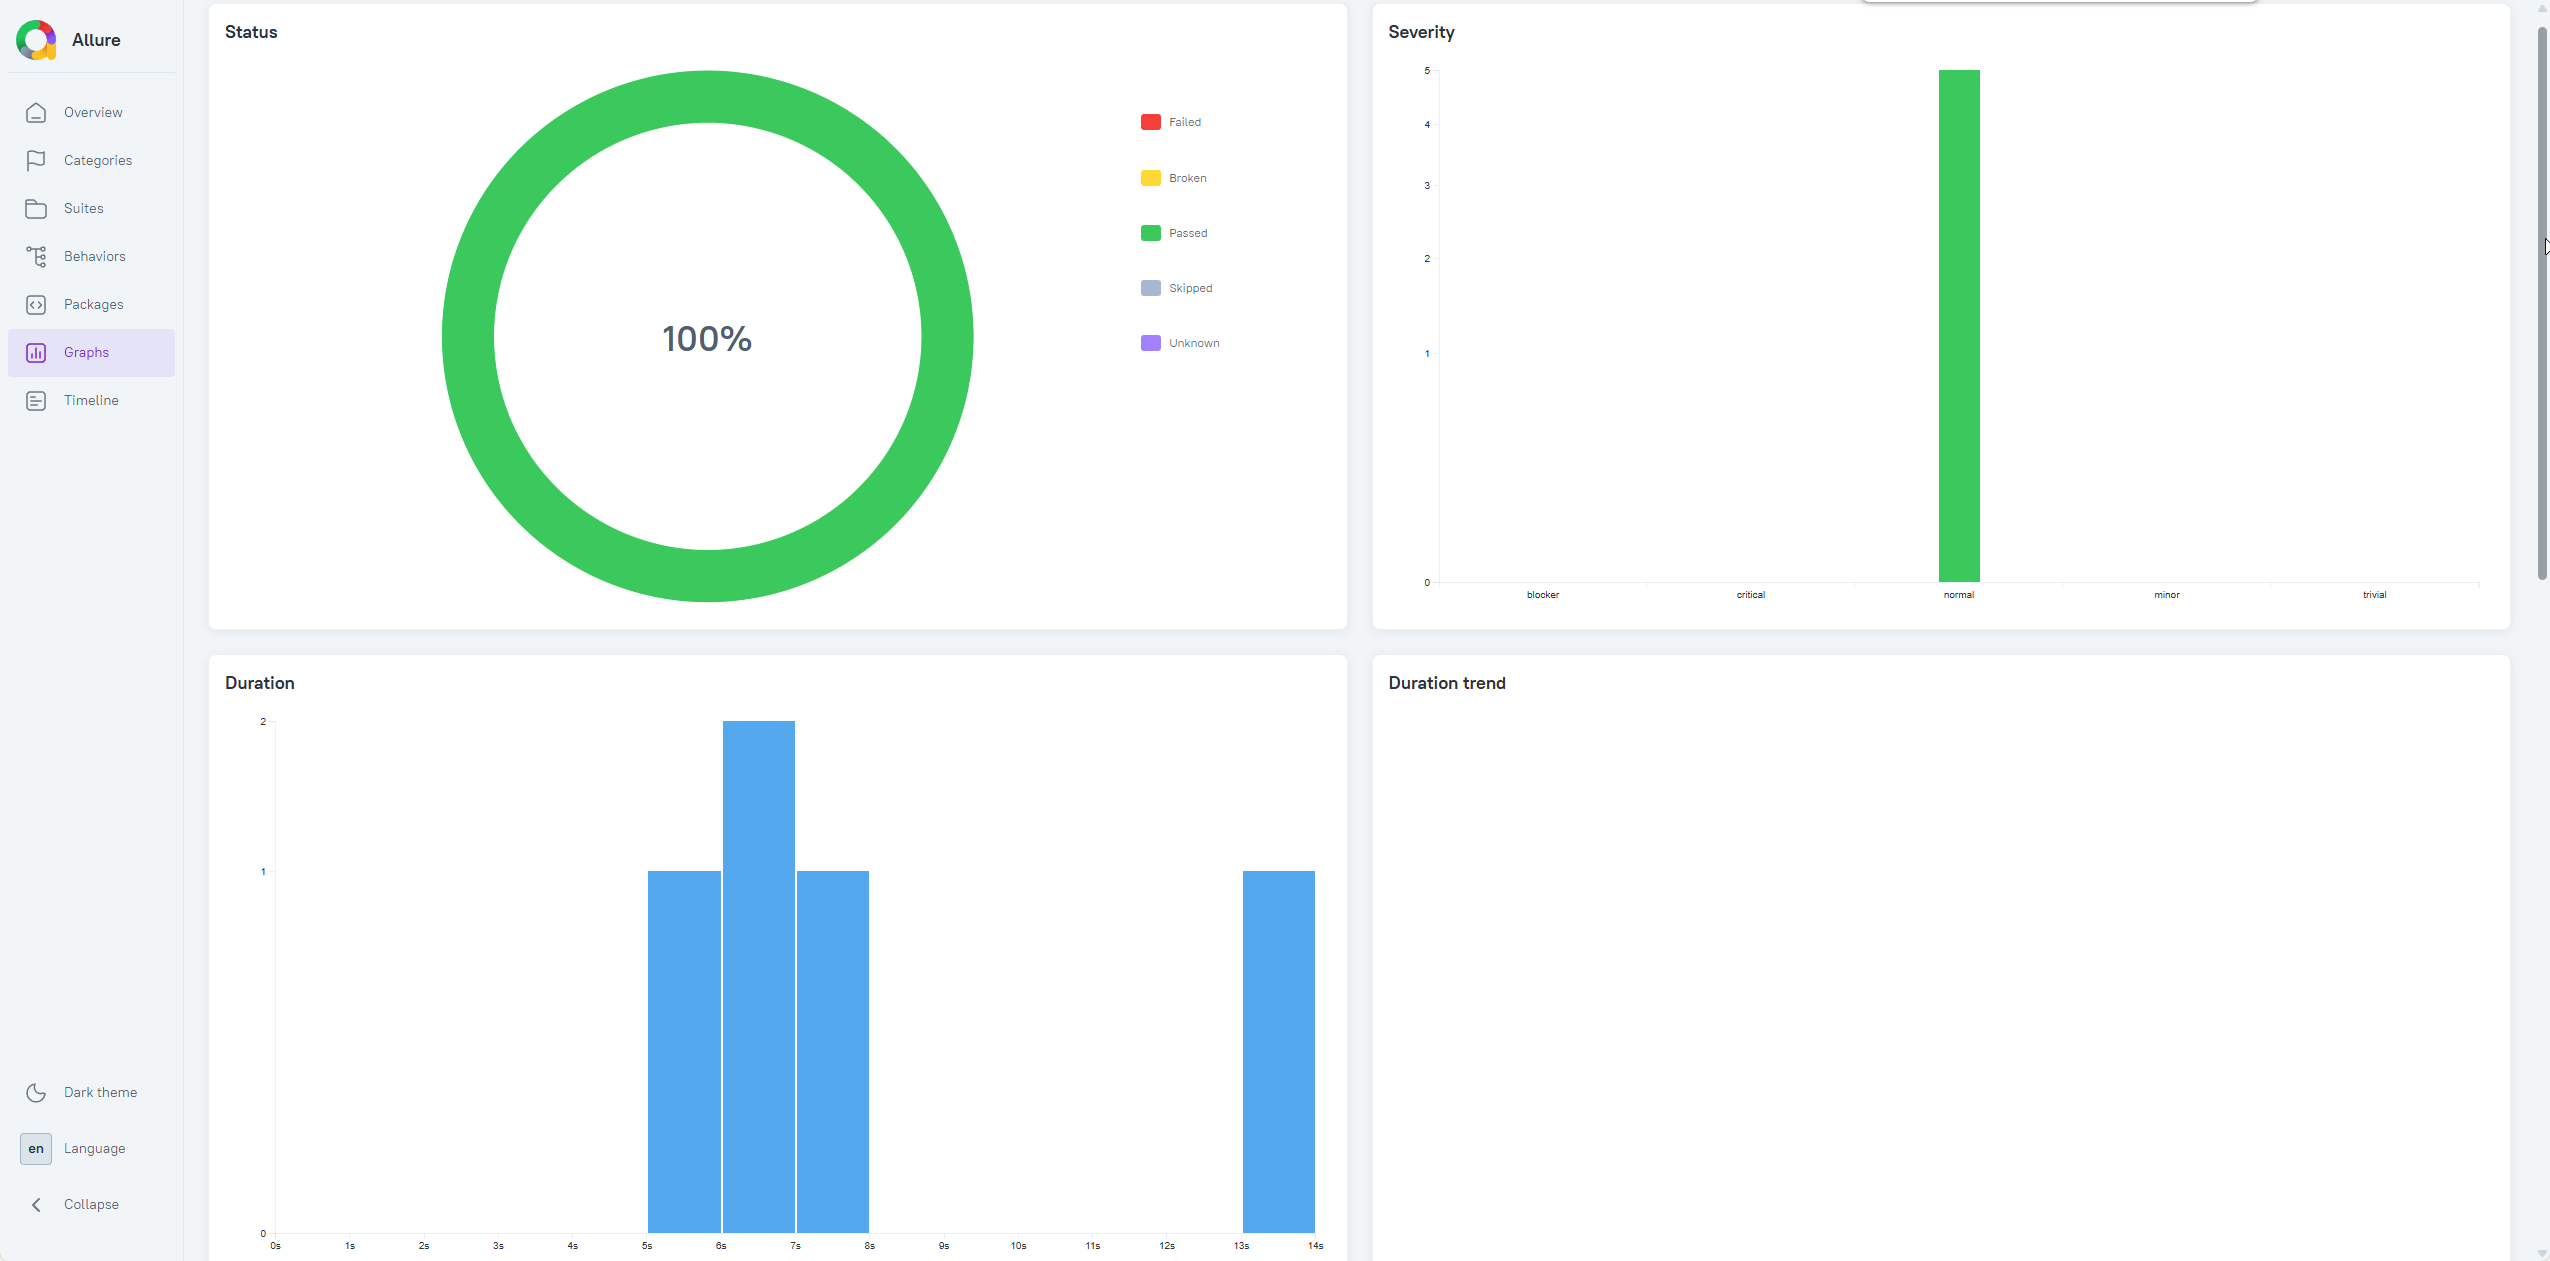
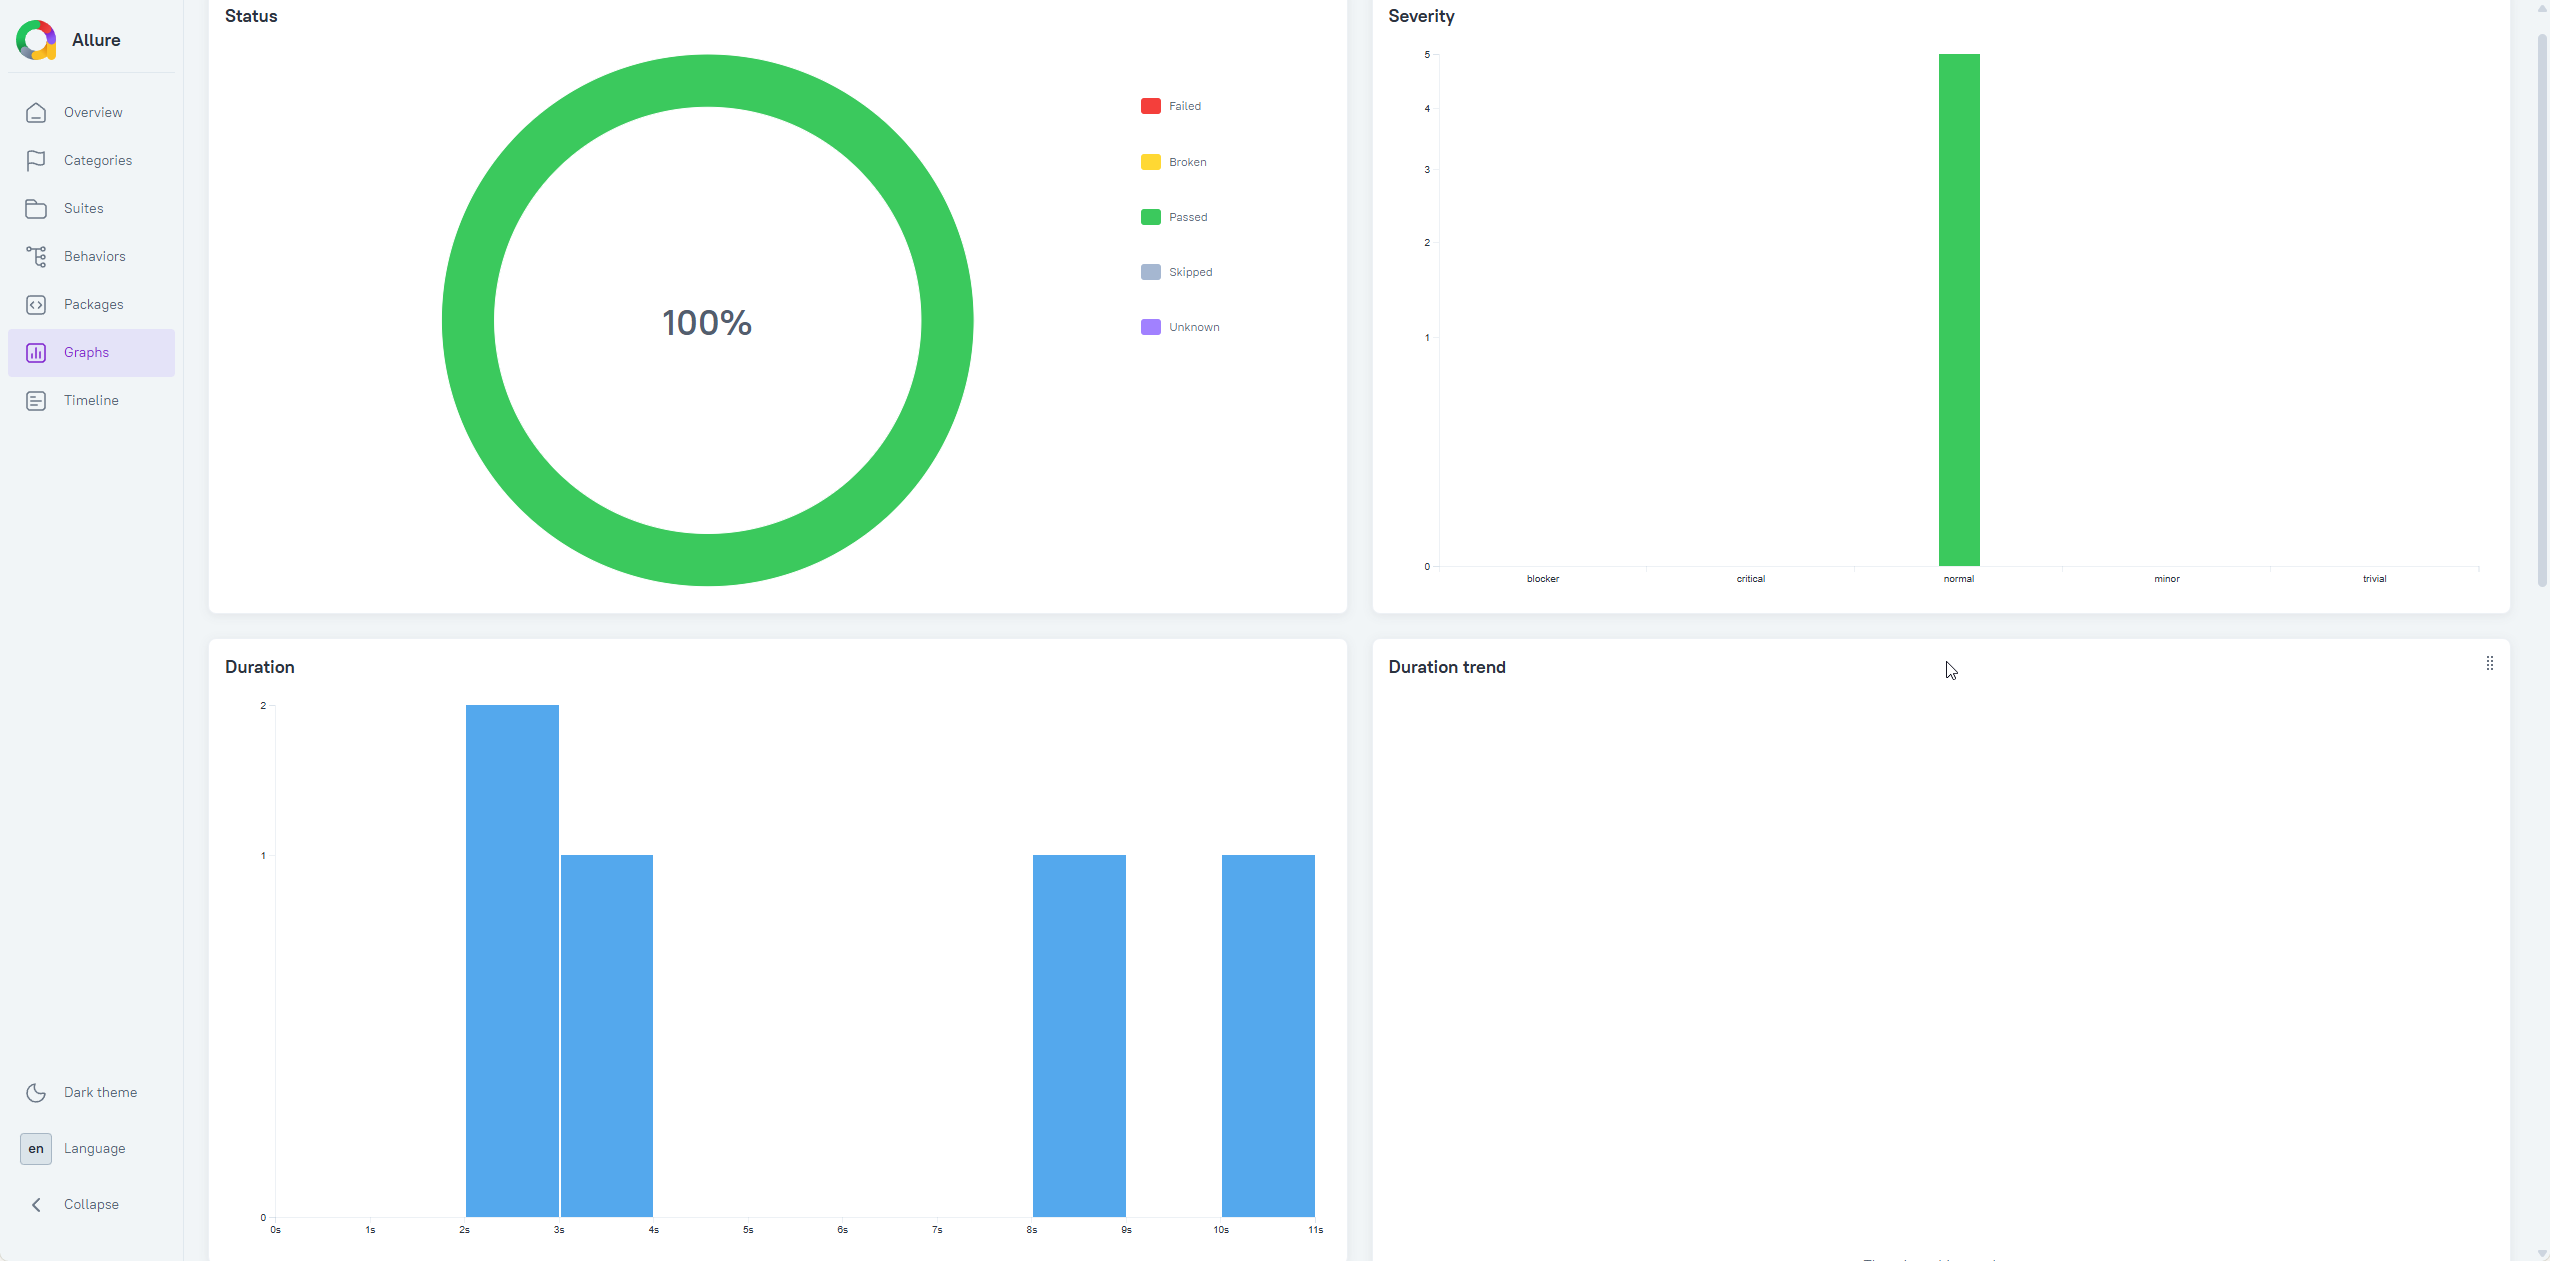
refactor: split Components

diff --git a/src/test/java/Pages/Buildings.java b/src/test/java/Pages/Buildings.java
@@ -2,6 +2,8 @@ package Pages;
 
 import com.codeborne.selenide.SelenideElement;
 import io.qameta.allure.Step;
+
+import static Pages.Components.pageTitle;
 import static com.codeborne.selenide.Condition.*;
 import static com.codeborne.selenide.Selectors.withText;
 import static com.codeborne.selenide.Selenide.*;
@@ -19,14 +21,19 @@ public class Buildings {
             maxAreaInput = $(".FullFormWidget__field--increased_indent .RangeInput__text_input--right"),
             submitButton = $(".Modal__body button[type='submit']");
 
-    @Step("Нажать Все фильтры")
-    public Buildings clickAllFilters() {
-        allFilters.should(appear).click();
+    public Buildings checkBuildingsPageOpen() {
+        $(pageTitle).shouldHave(text("Новостройки в Санкт-Петербурге и Ленинградской области"));
         return this;
     }
 
     public Buildings checkPurchaseChosen() {
         components.checkPurchaseChosen();
+        return this;
+    }
+
+    @Step("Нажать Все фильтры")
+    public Buildings clickAllFilters() {
+        allFilters.should(appear).click();
         return this;
     }
 
@@ -76,7 +83,9 @@ public class Buildings {
     @Step("Указать диапазон площади")
     public Buildings setArea(int min, int max) {
         minAreaInput.setValue(String.valueOf(min));
+        // Обнуляем MAX поле, чтобы UI переключил множитель с "тыс. кв.м" на "кв.м"
         maxAreaInput.setValue("0");
+        // Ждем, пока UI перерисуется и синхронизирует поле с минимальным значением
         maxAreaInput.shouldHave(value(String.valueOf(min)));
         maxAreaInput.setValue(String.valueOf(max));
         return this;
@@ -90,9 +99,11 @@ public class Buildings {
 
     @Step("Завершить поиск")
     public SearchResults submitSearch() {
-        String submitButtonText = submitButton.getText();
+        String submitButtonText = submitButton.shouldBe(visible).getText();
         submitButton.shouldNotHave(exactText(submitButtonText));
-        submitButton.shouldBe(enabled).click();
-        return new SearchResults();
+        submitButton.shouldBe(visible, enabled).click();
+        SearchResults searchResults = new SearchResults();
+        searchResults.checkSearchResultPageOpen();
+        return searchResults;
     }
 }

diff --git a/src/test/java/Pages/MainPage.java b/src/test/java/Pages/MainPage.java
@@ -31,13 +31,17 @@ public class MainPage {
     @Step("Нажать найти")
     public Buildings clickSearch() {
         searchButton.should(appear).click();
-        return new Buildings();
+        Buildings buildings = new Buildings();
+        buildings.checkBuildingsPageOpen();
+        return buildings;
     }
 
     @Step("Выбрать быстрый фильтр метро")
     public SearchResults chooseQuickFilterMetro(String value) {
         $("[href='/buildings/search/params/metro_" + value + "']").click();
-        return new SearchResults();
+        SearchResults searchResults = new SearchResults();
+        searchResults.checkSearchResultPageOpen();
+        return searchResults;
     }
 
     @Step("Выбрать вторичку")
@@ -71,18 +75,24 @@ public class MainPage {
     @Step("Открыть избранное")
     public Favorites openFavorites() {
         favoritesButton.click();
-        return new Favorites();
+        Favorites favorites = new Favorites();
+        favorites.checkFavoritesPageOpen();
+        return favorites;
     }
 
     @Step("Нажать контакты")
     public Contacts clickContacts() {
         contactsButton.click();
-        return new Contacts();
+        Contacts contacts = new Contacts();
+        contacts.checkContactsPageOpen();
+        return contacts;
     }
 
     @Step("Открыть сравнение")
     public Comparison openComparison() {
         comparisonButton.click();
-        return new Comparison();
+        Comparison comparison = new Comparison();
+        comparison.checkComparisonPageOpen();
+        return comparison;
     }
 }

diff --git a/src/test/java/Tests.java b/src/test/java/Tests.java
@@ -7,16 +7,13 @@ import org.junit.jupiter.api.Test;
 import static io.qameta.allure.Allure.step;
 
 public class Tests extends TestBase {
-    Buildings buildings = new Buildings();
     MainPage mainPage = new MainPage();
-    SearchResults searchResults = new SearchResults();
 
     @DisplayName("Поиск по параметрам")
     @Test
     void searchByParameters() {
-        mainPage.openPage()
-                .clickSearch()
-                .clickAllFilters();
+        Buildings buildings = mainPage.openPage().clickSearch();
+        buildings.clickAllFilters();
         step("Установить параметры поиска", () -> {
             buildings.checkPurchaseChosen()
                     .checkNewBuildingsChosen()
@@ -31,8 +28,7 @@ public class Tests extends TestBase {
                     .setOptionsOfFloors("Не последний")
                     .setOptionsOfFloors("Не первый");
         });
-        buildings.submitSearch()
-                .checkSearchResultPageOpen();
+        SearchResults searchResults = buildings.submitSearch();
         step("Проверить результат поиска", () -> {
             searchResults.checkPurchaseChosen()
                     .checkNewBuildingsChosen()
@@ -66,7 +62,6 @@ public class Tests extends TestBase {
         String expectedTitle = mainPage.getResaleTitle();
         mainPage.addResaleToFavorites()
                 .openFavorites()
-                .checkFavoritesPageOpen()
                 .checkFavoritesResaleFirstCardTitle(expectedTitle);
     }
 
@@ -75,7 +70,6 @@ public class Tests extends TestBase {
     void redirectToContacts() {
         mainPage.openPage()
                 .clickContacts()
-                .heckContactsPageOpen()
                 .checkNumberEmailMap("+7 (812) ", "[email redacted]");
     }
 
@@ -88,7 +82,6 @@ public class Tests extends TestBase {
         mainPage.addNewBuildsToComparison(0)
                 .addNewBuildsToComparison(1)
                 .openComparison()
-                .checkComparisonPageOpen()
                 .checkNewBuildCardTitleInComparison(0, expectedTitle1)
                 .checkNewBuildCardTitleInComparison(1, expectedTitle2);
     }

diff --git a/src/test/java/TestBase.java b/src/test/java/TestBase.java
@@ -1,10 +1,11 @@
 import com.codeborne.selenide.Configuration;
-import com.codeborne.selenide.Selenide;
 import com.codeborne.selenide.logevents.SelenideLogger;
 import io.qameta.allure.selenide.AllureSelenide;
 import org.junit.jupiter.api.AfterEach;
 import org.junit.jupiter.api.BeforeAll;
 import org.junit.jupiter.api.BeforeEach;
+
+import static com.codeborne.selenide.Selenide.*;
 
 public class TestBase {
     @BeforeAll
@@ -13,11 +14,14 @@ public class TestBase {
         Configuration.browserSize = "1920x1080";
         Configuration.baseUrl = "https://new.pn.ru/";
         Configuration.browser = "chrome";
+        SelenideLogger.addListener("allure", new AllureSelenide());
     }
 
     @BeforeEach
-    void addListener() {
-        SelenideLogger.addListener("allure", new AllureSelenide());
+    void setup() {
+        open("");
+        clearBrowserCookies();
+        clearBrowserLocalStorage();
     }
 
     @AfterEach
@@ -25,6 +29,5 @@ public class TestBase {
         Attach.attachScreenshot();
         Attach.browserConsoleLogs();
         Attach.pageSnapshot();
-        Selenide.closeWebDriver();
     }
 }

diff --git a/src/test/java/Pages/Comparison.java b/src/test/java/Pages/Comparison.java
@@ -12,14 +12,14 @@ import static com.codeborne.selenide.Selenide.$$;
 public class Comparison {
     private final SelenideElement comparisonPageTitle = $(".ComparisonPage__header");
 
-    @Step("Проверить заголовок новостроек в сравнении")
-    public Comparison checkNewBuildCardTitleInComparison(int index, String value) {
-        $$(newBuildsCards).get(index).shouldHave(text(value));
+    public Comparison checkComparisonPageOpen() {
+        comparisonPageTitle.should(appear).shouldHave(text("Сравнение"));
         return this;
     }
 
-    public Comparison checkComparisonPageOpen() {
-        comparisonPageTitle.should(appear).shouldHave(text("Сравнение"));
+    @Step("Проверить заголовок новостроек в сравнении")
+    public Comparison checkNewBuildCardTitleInComparison(int index, String value) {
+        $$(newBuildsCards).get(index).shouldHave(text(value));
         return this;
     }
 }

diff --git a/src/test/java/Pages/SearchResults.java b/src/test/java/Pages/SearchResults.java
@@ -5,6 +5,7 @@ import com.codeborne.selenide.SelenideElement;
 import io.qameta.allure.Step;
 import org.junit.jupiter.api.Assertions;
 
+import static Pages.Components.pageTitle;
 import static com.codeborne.selenide.Condition.*;
 import static com.codeborne.selenide.Condition.visible;
 import static com.codeborne.selenide.Selectors.withText;
@@ -14,8 +15,7 @@ import static org.junit.jupiter.api.Assertions.assertTrue;
 
 public class SearchResults {
 
-    private final SelenideElement searchResultPageTitle = $("h1.RealEstate__title.RealEstate__title--desktop"),
-            rangeOfCostInFiltersSelector = $("[name='rangePrice']").parent(),
+    private final SelenideElement rangeOfCostInFiltersSelector = $("[name='rangePrice']").parent(),
             tagsOfSelectedFilters = $(".SelectedFilters__tags"),
             quantityOfRooms = $(".FiltersSection__field--room");
 
@@ -24,7 +24,7 @@ public class SearchResults {
     Components components = new Components();
 
     public SearchResults checkSearchResultPageOpen() {
-        searchResultPageTitle.shouldHave(text("Квартиры в новостройке"));
+        $(pageTitle).shouldHave(text("Квартиры в новостройке"));
         return this;
     }
 

diff --git a/src/test/java/Pages/Components.java b/src/test/java/Pages/Components.java
@@ -2,13 +2,15 @@ package Pages;
 
 import com.codeborne.selenide.SelenideElement;
 import io.qameta.allure.Step;
+
 import static com.codeborne.selenide.Condition.text;
 import static com.codeborne.selenide.Selenide.$;
 
 public class Components {
 
     public static final String newBuildsCards = ".ComplexCard",
-            cardResaleTitle = ".RealEstateCardSkeleton__estate";
+            cardResaleTitle = ".RealEstateCardSkeleton__estate",
+            pageTitle = "h1.RealEstate__title.RealEstate__title--desktop";
 
     private final SelenideElement rentOrBuyInput = $("[title='Купить'] span.SelectInput__text_input"),
             buildingTypeInput = $("[title='Квартиры в новостройке'] span.SelectInput__text_input");

diff --git a/src/test/java/Pages/Contacts.java b/src/test/java/Pages/Contacts.java
@@ -13,12 +13,10 @@ public class Contacts {
             contactsEmail = $(".ContactSection__link--email"),
             contactsMap = $(".ContactSection__map_container");
 
-    @Step("Проверить номер, почту и карту")
-    public Contacts heckContactsPageOpen() {
+    public Contacts checkContactsPageOpen() {
         contactsTitle.shouldHave(text("Контакты"));
         return this;
     }
-
 
     @Step("Проверить номер, почту и карту")
     public void checkNumberEmailMap(String number, String email) {